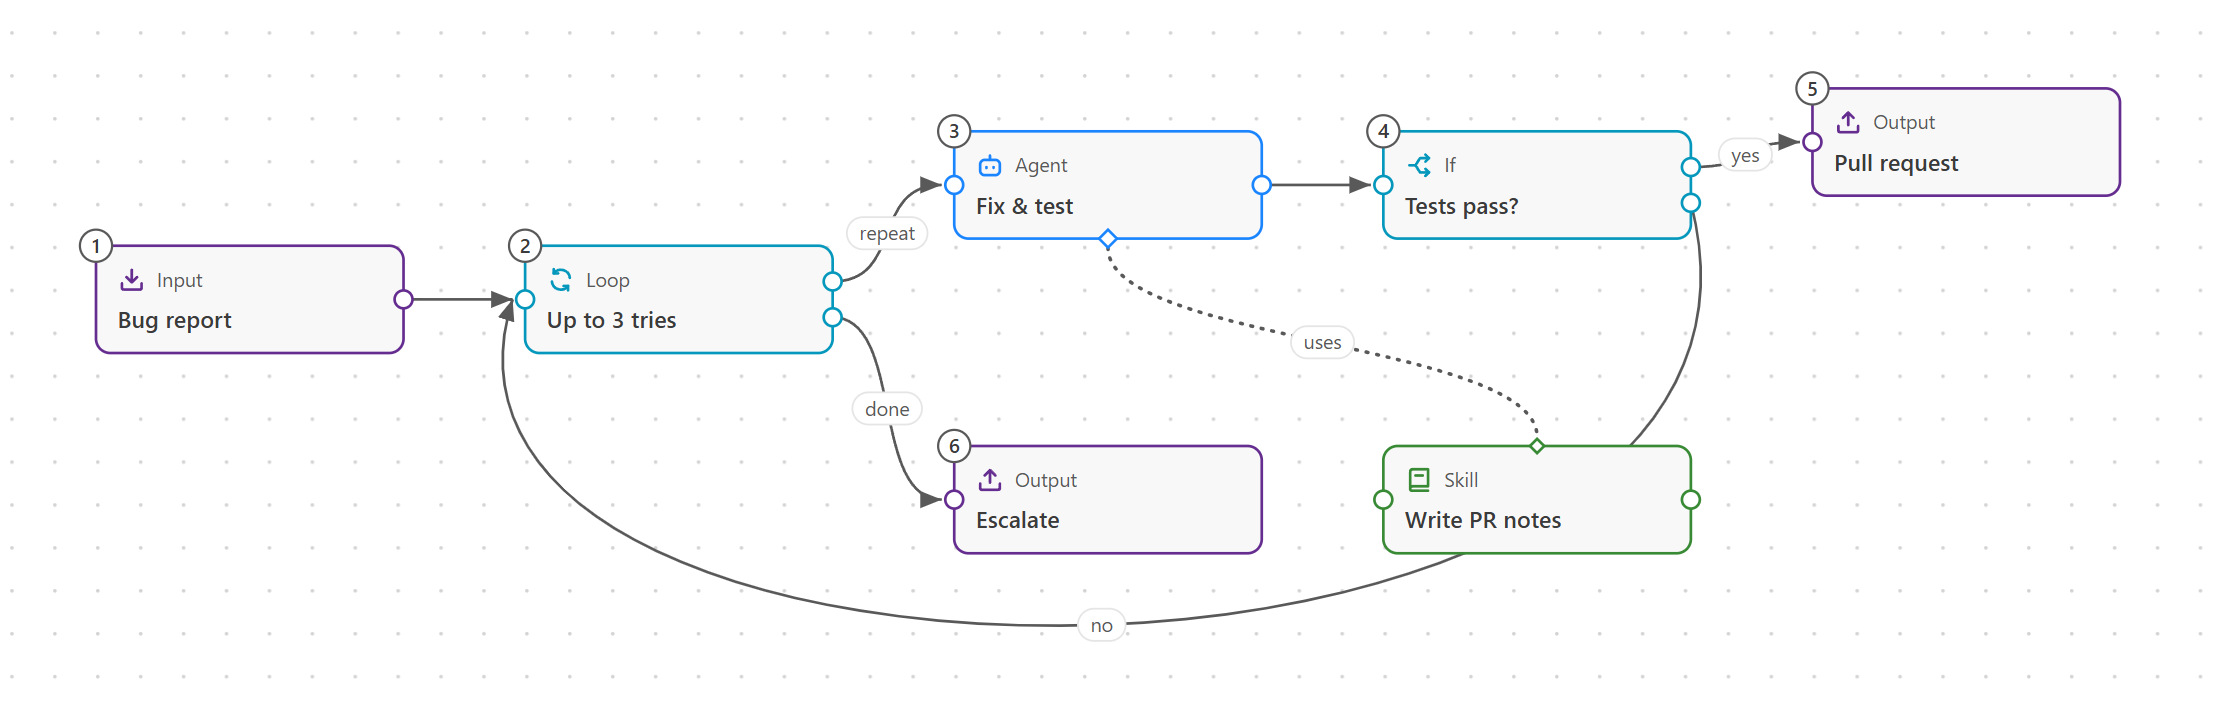
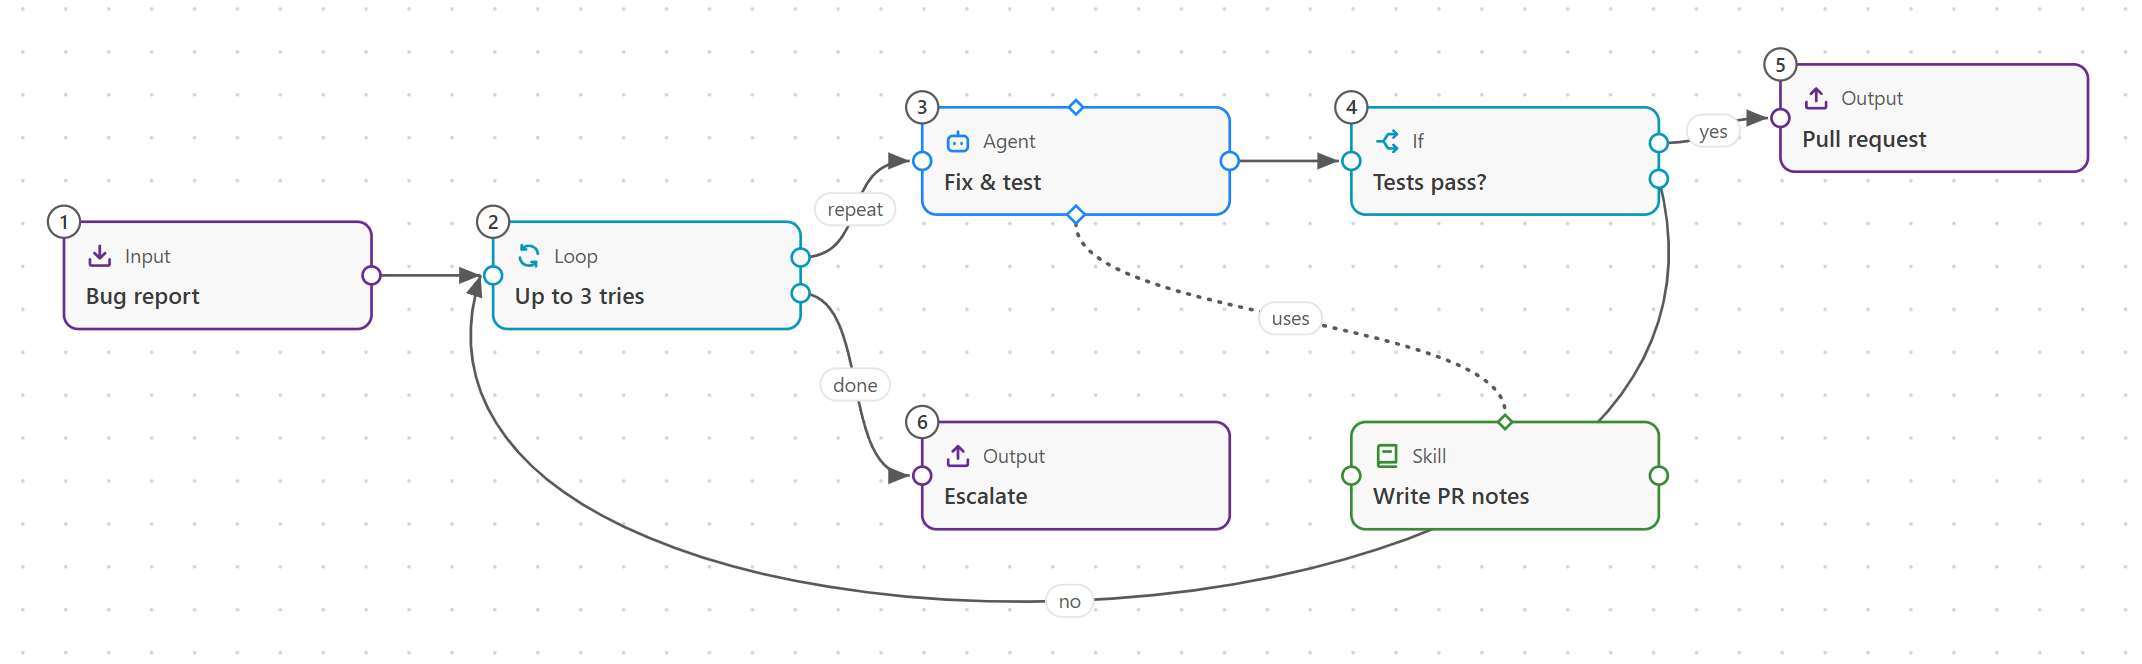
Document 0.3.0 and refresh the screenshots
Changelog for 0.3.0 (and the missing 0.2.1 entry), README sections on
best-practice checks and on workflows with leads and helpers, and new
screenshots and animation taken from the editor itself.

diff --git a/README.md b/README.md
@@ -6,14 +6,15 @@ Draw the workflow with blocks and arrows, answer a few plain questions for each 
 
 [Try it in your browser](https://alaturqua.github.io/skill-canvas/#try) · [Website](https://alaturqua.github.io/skill-canvas/) · [Report an issue](https://github.com/alaturqua/skill-canvas/issues)
 
-![Starting from a starter, filling in an agent and its skill, switching to GitHub Copilot, and arranging the blocks top to bottom](docs/images/hero.gif)
+![Starting from a starter, filling in an agent (a tip asks to say when to use it, and goes away once it does), filling in its skill and a test scenario, switching to GitHub Copilot, and arranging the blocks top to bottom](docs/images/hero.gif)
 
 ## Why Skill Canvas
 
 - **See the whole workflow.** Steps, decisions and retries sit on one board, numbered in the order they run.
 - **Real files, not a new format.** You get standard agent and skill files in the places Claude Code and GitHub Copilot look for them. They keep working without Skill Canvas installed.
 - **One sketch, two tools.** Switch between Claude Code and GitHub Copilot at any time. The same board prints both.
-- **Bring what you have.** Import the agents and skills you already wrote, edit them on the board, and export them back to the same files.
+- **Bring what you have.** Import the agents and skills you already wrote, edit them on the board, and export them back to the same files. Settings the board doesn't show are kept as they are.
+- **Good skills by default.** Every block is checked against Anthropic's [skill authoring best practices](https://platform.claude.com/docs/en/agents-and-tools/agent-skills/best-practices), with plain tips on how to make it better.
 
 ## Quick start
 
@@ -23,7 +24,9 @@ Open a folder in VS Code. Then click **New Canvas** in the **Skill Canvas** view
 
 Pick a starter to begin with a small working flow, or close the card and drag blocks in from the left.
 
-![A new canvas: the blocks on the left and three starters: Single agent, Agent with a skill, and Try until it works](docs/images/starters.png)
+![A new canvas: the blocks on the left and five starters: Single agent, Agent with a skill, Try until it works, Skill with a check, and Read-only reviewer](docs/images/starters.png)
+
+**Skill with a check** follows a playbook, checks the result, then fixes it and checks again. **Read-only reviewer** is an agent that can look but not change anything.
 
 ### 2. Sketch with blocks
 
@@ -39,9 +42,21 @@ Pick a starter to begin with a small working flow, or close the card and drag bl
 
 ### 3. Fill in each block
 
-Select a block and the details panel on the right asks plain questions: what it's for, its instructions, and which tools it may use. Further down, the panel previews the exact file the block becomes. For an agent or a skill, switch to **Edit file** to change the Markdown yourself; your edits go back into the form.
+Select a block and the details panel on the right asks plain questions: what it's for, its instructions, and which tools it may use. Further down, the panel previews the exact file the block becomes. For an agent or a skill, switch to **Edit file** to change the Markdown yourself; your edits go back into the form. Drag the panel's left edge to make it wider or narrower.
 
-The toolbar counts anything still missing, like an agent without instructions. When nothing is missing it says **Ready**.
+A skill can also have:
+
+- **Extra files**: details the AI only reads when it needs them, like a long reference or examples. They're saved next to the skill and linked from it, so the main instructions stay short.
+- **Test scenarios**: real requests and what a good result does. Write at least three, then try them in chat. They're saved as `evals/evals.json` in the skill's folder.
+
+![A skill with an extra file, reference/style.md, and two test scenarios. The toolbar says Ready with one tip: add one more test scenario](docs/images/skill.png)
+
+**Advanced** holds the Claude Code settings:
+
+- For a skill: who can start it, whether it runs on its own as a separate agent, its model and effort, and which files it's for.
+- For an agent: its effort, a turn limit, permissions, tools it may never use, memory, and whether it works in a separate copy of the repository.
+
+The toolbar counts anything still to fix, like an agent without instructions or a name Claude won't accept. When nothing is left to fix it says **Ready**, with the number of tips that could make it better. See [Best-practice checks](#best-practice-checks).
 
 ![An agent selected on the board, with its name, what it's for, instructions and tools in the details panel](docs/images/fill.png)
 
@@ -50,6 +65,7 @@ The toolbar counts anything still missing, like an agent without instructions. W
 - **Order:** drag from the dot on a block's outgoing edge to the next block. You can also pick the **Next step** in the details panel.
 - **Decisions and retries:** an **If** block has a *yes* and a *no* path. A **Loop** has *repeat* and *done*.
 - **Skills and tools:** drag from the small handle under an agent to a Skill or Tool block. The dotted **uses** link gives that agent the skill.
+- **Helper agents:** drag from that handle to another Agent block, or use **Agents it can hand work to** in the details panel. The first agent becomes a lead that can pass parts of the work to its helpers. See [Workflows, leads and helpers](#workflows-leads-and-helpers).
 - **Tidy up:** the **Arrange** buttons at the bottom right lay the board out left to right or top to bottom. The step numbers follow along.
 
 ![A bug-fix workflow: Bug report, Up to 3 tries, Fix & test, Tests pass?, then Pull request or back to try again, with a Write PR notes skill linked to the agent](docs/images/connect.png)
@@ -63,7 +79,7 @@ Choose **Claude Code** or **GitHub Copilot** in the toolbar and click **Export**
 
 Before anything is written, you see every file and whether it's new or an update. Files this canvas wrote last time are updated in place. A file that exists but wasn't written by this canvas starts unchecked. If you check it, the original goes to the trash before it's replaced.
 
-![The workflow's settings: when to run it, its /loop-example command, and the three files it will create](docs/images/export.png)
+![The workflow's settings: when to run it, and the five files it will create, including a skill's extra file and test scenarios](docs/images/export.png)
 
 ### 6. Run it
 
@@ -73,7 +89,43 @@ Type the workflow's command in Claude Code or GitHub Copilot Chat, for example `
 
 Click **Import agents & skills** at the bottom of the block list, or run **Skill Canvas: Import Agents & Skills**. Pick from `.claude` or `.github` in your project, or from your user folder (`~/.claude`, `~/.copilot`). Skills an agent already loads arrive linked to it. Edit them on the board, export, and the same files update in place.
 
+Nothing is lost on the way back:
+
+- Settings the board doesn't show, like `hooks` or `mcpServers`, are written back exactly as they were.
+- Markdown files in a skill's folder become its extra files, and `evals/evals.json` becomes its test scenarios.
+- Other files, like scripts, are listed and left alone.
+
 ![An imported Code reviewer agent linked to its Code standards skill, with the skill's file previewed in the details panel](docs/images/import.png)
+
+## Best-practice checks
+
+Skill Canvas checks every agent and skill against Anthropic's [skill authoring best practices](https://platform.claude.com/docs/en/agents-and-tools/agent-skills/best-practices) and the Claude Code reference.
+
+- **To fix:** things Claude would reject or cut off.
+  - A name that isn't lowercase letters, numbers and hyphens, or that contains "claude" or "anthropic".
+  - A missing description, or one over 1,024 characters.
+  - XML tags.
+  - A model, effort or other setting Claude Code doesn't accept.
+- **Tips:** the guide's advice. Tips never block an export.
+  - Say *when* to use it ("Use when the user asks for release notes").
+  - Describe it in the third person ("Writes release notes…", not "I can…").
+  - Be specific, and avoid generic names like `helper` or `utils`.
+  - Keep the instructions under 500 lines, moving details into extra files.
+  - Use forward slashes in paths, and avoid dates that will go out of date.
+  - Only link to files that exist.
+  - Start extra files over 100 lines with a contents list, and link them from the main instructions rather than from each other.
+  - Write at least three test scenarios.
+
+The same checks run when you open a `SKILL.md` or agent file as text, including files you didn't make with the canvas. Things to fix show as warnings and tips as information in the Problems view. To turn this off, set `skillCanvas.lint.enabled` to `false`.
+
+## Workflows, leads and helpers
+
+There are two ways to have several agents work together.
+
+- **A workflow (the usual way).** Connect two or more steps and Skill Canvas writes a workflow skill, which you run as a `/command`. The main chat follows the numbered steps and hands each one to the right agent. It checks results at **If** blocks and retries in **Loop** blocks. This is the orchestration pattern Claude Code recommends, and you can see every step on the board.
+- **A lead with helpers.** Link one agent to others. The lead gets the Agent tool and the names of its helpers, and decides itself when to pass work on. Helpers aren't steps of the workflow. Claude Code allows agents to start agents up to three levels deep.
+
+A list after `Agent`, as in `tools: Agent(worker, researcher)`, only limits which agents can be started when the agent runs as the main session (`claude --agent lead`). In a normal agent, the list is ignored.
 
 ## Where the files go
 
@@ -86,6 +138,8 @@ Standard locations, so the tools find them without Skill Canvas installed.
 | GitHub Copilot, this project | `.github/agents/<name>.agent.md`     | `.github/skills/<name>/SKILL.md`     |
 | GitHub Copilot, all projects | `~/.copilot/agents/<name>.agent.md`  | `~/.copilot/skills/<name>/SKILL.md`  |
 
+A skill's extra files and test scenarios go in its folder, next to `SKILL.md`, for example `reference/forms.md` and `evals/evals.json`.
+
 ## Keyboard shortcuts
 
 | Key               | Does                                                   |
@@ -97,6 +151,7 @@ Standard locations, so the tools find them without Skill Canvas installed.
 | `0`               | Fit everything on screen                               |
 | `Space` + drag    | Move around the canvas                                 |
 | `Escape`          | Clear the selection, or close the starters             |
+| `←` and `→`       | On the details panel's edge: make it wider or narrower |
 
 ## Good to know
 

diff --git a/CHANGELOG.md b/CHANGELOG.md
@@ -8,6 +8,61 @@ and this project adheres to [Semantic Versioning](https://semver.org/spec/v2.0.0
 
 ## [Unreleased]
 
+## [0.3.0] - 2026-10-06
+
+Skill Canvas now follows Anthropic's [skill authoring best practices](https://platform.claude.com/docs/en/agents-and-tools/agent-skills/best-practices) and supports the newer Claude Code settings for skills and agents.
+
+### Added
+
+- **Best-practice checks.** Each agent and skill is checked as you work:
+  - **Things to fix** are things Claude would reject or cut off. Examples: a name with capitals or with "claude" or "anthropic" in it, a description over 1,024 characters (or over 1,536 together with "More about when to use it"), XML tags, and settings Claude Code doesn't accept.
+  - **Tips** are the guide's advice:
+    - Say when to use it, and write in the third person ("Writes release notes…", not "I can…").
+    - Be specific, and avoid generic names like `helper`.
+    - Keep instructions under 500 lines, and use forward slashes in paths.
+    - Avoid dates that will go out of date.
+    - Link only to files that exist, and give extra files over 100 lines a contents list.
+    - Write at least 3 test scenarios.
+  - Tips look quieter and aren't counted as things to fix. When there are no problems, the toolbar says **Ready · N tips**.
+  - Descriptions show a character count.
+- **Problems in the text editor.** When you open a `SKILL.md` or agent file as text, the same checks show as warnings and information in the Problems view. They also apply to files you didn't make with the canvas. Turn this off with the new `skillCanvas.lint.enabled` setting.
+- **Extra files for skills.** These are details the AI only reads when needed, like a long reference or examples. They're saved next to `SKILL.md` (for example `reference/forms.md`) and linked from it, one level deep, so the main instructions stay short.
+- **Test scenarios for skills.** Each scenario is a request and what a good result does. They're saved as `evals/evals.json` in the guide's evaluation format.
+- **Claude Code settings** under **Advanced**:
+  - Skills: more about when to use it, who can start it (you, the AI, or both), run on its own as a separate agent, model, effort, and only for files matching certain patterns.
+  - Agents: effort, a turn limit, permissions, tools it may never use, memory, working in a separate copy of the repository, and color.
+- **Agents that hand work to other agents.** Link one agent to another, like a lead and its helpers. The lead is told their names and gets the Agent tool. A tip explains that `Agent(name, …)` only limits which agents it can start when it runs as the main session.
+- More tools to choose from: hand work to other agents, use skills, keep a to-do list, and edit notebooks. There's also a hint for MCP tool names.
+- Two starters: **Skill with a check** (the guide's check-and-fix loop) and **Read-only reviewer**.
+- The details panel can be resized: drag its left edge, or focus the edge and use the arrow keys. Double-click resets it.
+- The generated workflow starts with a checklist of its steps, to copy and check off while it runs.
+
+### Changed
+
+- When you haven't written descriptions yet, the defaults follow the guide: they say what the block does and when to use it.
+- The export list counts things to fix and tips separately.
+- Removing a skill also removes the folders it leaves empty.
+
+### Fixed
+
+- Re-exporting an imported agent or skill no longer drops settings the canvas doesn't show, such as `hooks`, `mcpServers`, `license` or `metadata`. They're kept exactly as written.
+- Descriptions written over several lines (`description: >`, or a value continued on the next line) now import correctly.
+- A Copilot agent's list of fallback models is kept, instead of only the first model.
+- Importing a skill now reads its whole folder:
+  - Markdown files become extra files.
+  - Test scenarios are read.
+  - Other files, like scripts, are listed and left untouched.
+- Duplicating a block no longer shares its extra files and test scenarios with the original.
+- Comments on their own line in an agent's or skill's frontmatter are kept when it's exported again.
+- A comment at the end of a line (`model: sonnet # fast`) no longer ends up in the value.
+
+### Development
+
+- Tests that run inside VS Code (`npm run test:vscode`) cover problems in the text editor, reading a skill's folder, removing emptied folders and opening the canvas editor. CI runs them on Linux and Windows.
+- The screenshots and the animation in the README show this release.
+
+## [0.2.1] - 2026-09-29
+
 ### Added
 
 - A website at [alaturqua.github.io/skill-canvas](https://alaturqua.github.io/skill-canvas/) with a live demo: the real editor runs in the browser and prints the Claude Code and GitHub Copilot files as you edit. The extension's homepage link now points to it.
@@ -63,7 +118,9 @@ First public release. Version 0.1.0 was prepared but not published.
 
 - Licensed under the Apache License 2.0.
 
-[Unreleased]: https://github.com/alaturqua/skill-canvas/compare/v0.2.0...HEAD
+[Unreleased]: https://github.com/alaturqua/skill-canvas/compare/v0.3.0...HEAD
+[0.3.0]: https://github.com/alaturqua/skill-canvas/compare/v0.2.1...v0.3.0
+[0.2.1]: https://github.com/alaturqua/skill-canvas/compare/v0.2.0...v0.2.1
 [0.2.0]: https://github.com/alaturqua/skill-canvas/compare/v0.1.3...v0.2.0
 [0.1.3]: https://github.com/alaturqua/skill-canvas/compare/v0.1.2...v0.1.3
 [0.1.2]: https://github.com/alaturqua/skill-canvas/compare/v0.1.1...v0.1.2

diff --git a/PRODUCT.md b/PRODUCT.md
@@ -22,7 +22,8 @@ Skill Canvas lets people build agent and skill workflows visually on a canvas, t
 
 - **Workflows are first-class.** Branches (If) and loops (Loop) are designed visually, then compiled into plain agent and skill files. There is no runtime or lock-in; the output works without Skill Canvas installed.
 - **Tool-agnostic export.** One canvas exports to both Claude Code and GitHub Copilot, with more targets possible later.
-- **Round-trip editing (committed, not built yet).** Import existing agents and skills from `.claude/` or `.github/` onto the canvas and edit them visually.
+- **Round-trip editing.** Import existing agents and skills from `.claude/` or `.github/` onto the canvas, edit them visually, and export them back to the same files without losing settings the canvas doesn't show.
+- **Good skills by default.** Output and guidance follow Anthropic's skill authoring best practices; checks explain problems in plain words and separate what must be fixed from tips.
 
 Running or debugging workflows inside VS Code is not a committed direction.
 
@@ -39,7 +40,7 @@ Running or debugging workflows inside VS Code is not a committed direction.
 - The UI must follow the active VS Code theme (light, dark and high-contrast) through VS Code theme tokens, and sit comfortably inside the editor chrome.
 - Terminology users see: Agent, Skill, Tool, Input, Output, If, Loop, Workflow, Export. File-format jargon (frontmatter, YAML) should stay out of the user's way.
 - Distribution: free to start, with paid features or a pro tier planned later.
-- Undecided: pricing, which features become paid, and when round-trip editing ships.
+- Undecided: pricing, and which features become paid.
 
 ## Brand Commitments
 

diff --git a/CONTRIBUTING.md b/CONTRIBUTING.md
@@ -9,17 +9,29 @@ We welcome bug reports, feature ideas, documentation improvements, and pull requ
 1. Fork the repository and clone your fork.
 2. Install dependencies:
 
-```sh
-npm install
-```
+   ```sh
+   npm install
+   ```
 
 3. Run the project checks:
 
-```sh
-npm run compile
-npm test
-npm run lint
-```
+   ```sh
+   npm run compile
+   npm test
+   npm run lint
+   npm run test:vscode
+   ```
+
+   `npm test` runs the unit tests in `test/`. `npm run test:vscode` downloads VS Code once (into `.vscode-test/`) and runs `test/vscode/` inside it. These tests cover the parts that need the editor itself, like problems in the text editor.
+
+4. Try the editor in a browser with `npm run build:site`, then open `_site/demo/index.html` through a local web server. Or press `F5` in VS Code to start an Extension Development Host.
+
+## Where things live
+
+- `src/export.ts`: turns a canvas into agent and skill files, and reads them back.
+- `src/importer.ts` and `src/importFlow.ts`: import existing agents and skills.
+- `src/lint.ts`: the best-practice checks. Each rule has a test in `test/lint.test.js`. The canvas, the export and the text editor's problems (`src/lintFile.ts`, `src/diagnostics.ts`) all use them.
+- `media/canvas.js` and `media/canvas.css`: the editor itself.
 
 ## Workflow
 
